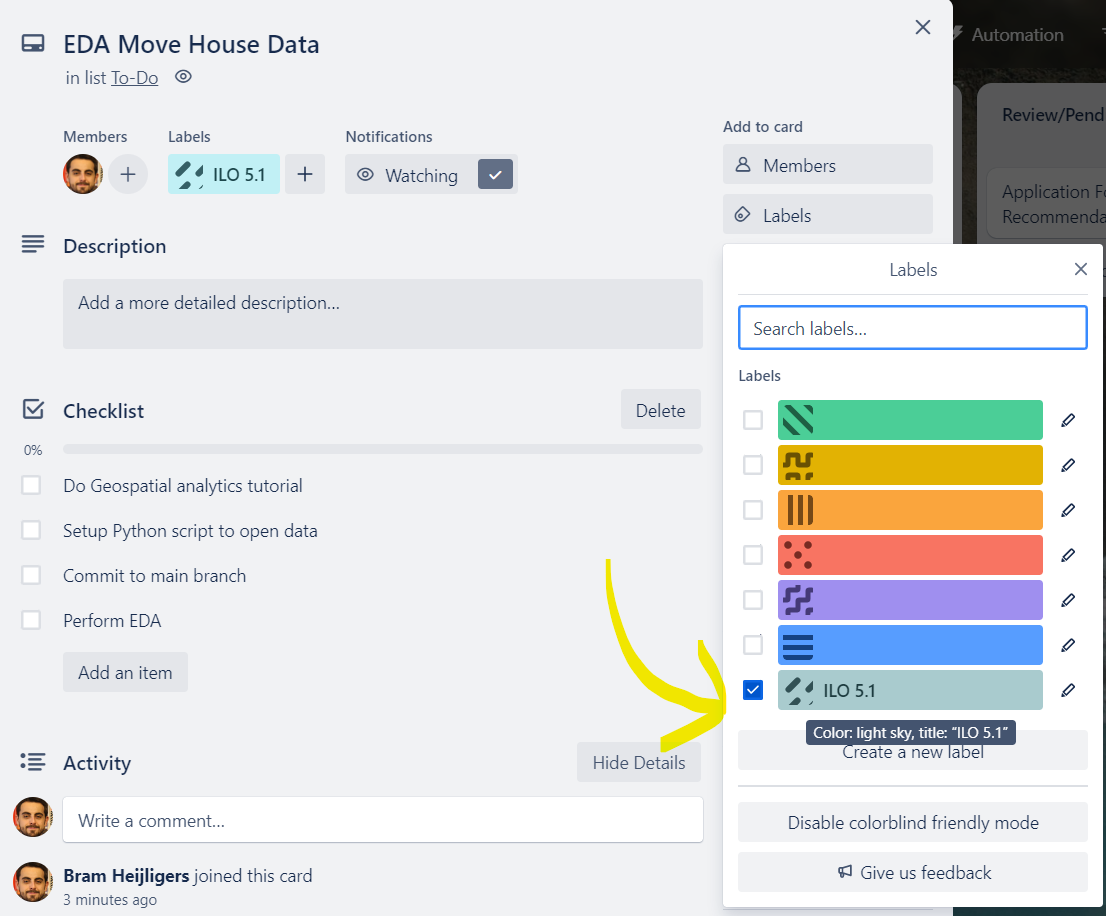
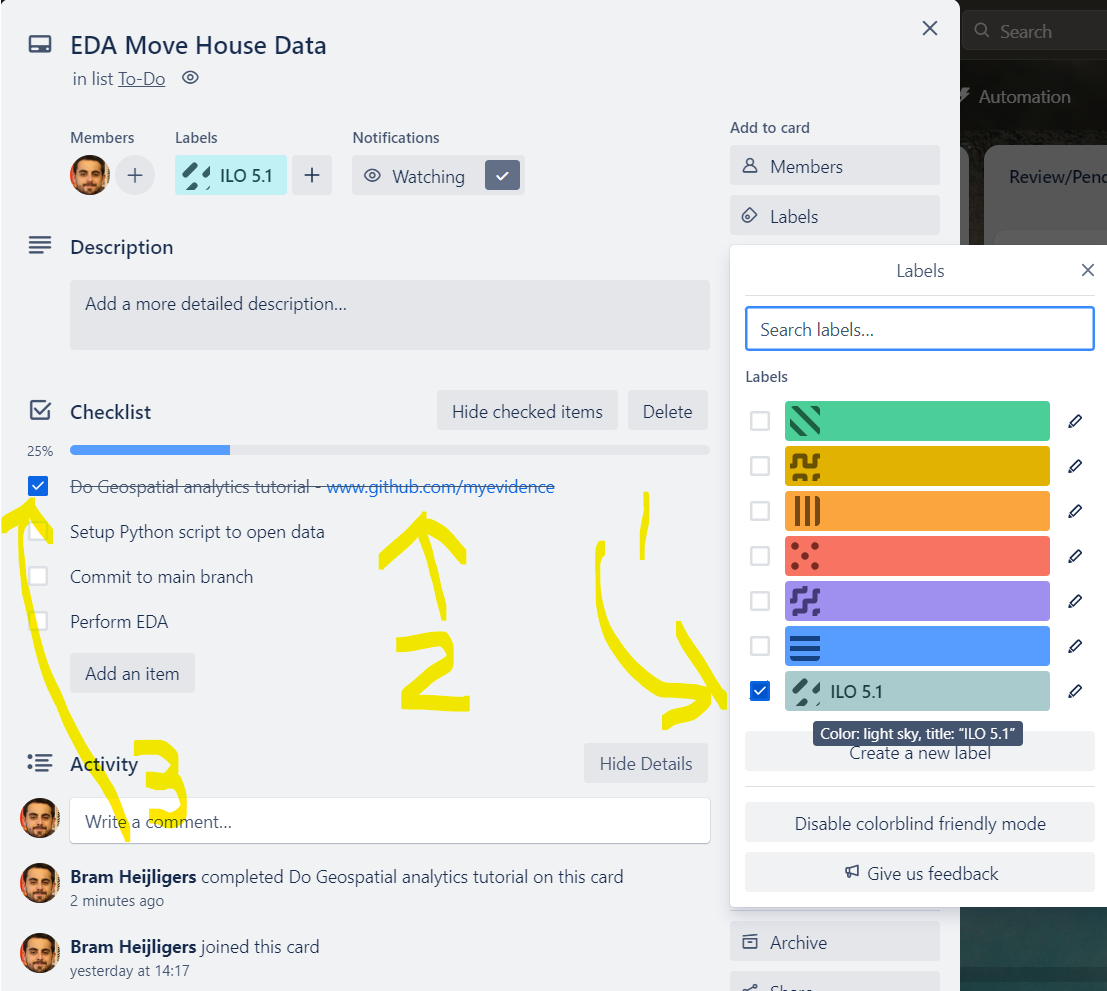
Y1D - Update Trello Evidencing

diff --git a/docs/Study Content/Agile Project Management/5.Getting Product Owner Approvement.md b/docs/Study Content/Agile Project Management/5.Getting Product Owner Approvement.md
@@ -74,6 +74,10 @@ When finalizing/creating the sprint planning, we want you to focus on planning t
         <img src=".\assets\ILO_Evidencing_Trello.png" />
   </figure>
   <br>
+So, after creating a task/story in trello, estimated it and planned it in, you will:
+1. Add (an) ILO label(s)
+2. Add an evidence link after complete the task/subtask
+3. Mark the task/subtask as done by marking it as illustrated or moving it on the board.
 
 Create a new board in trello and create headers for all the main categories of planning components above (what, how, who, inputs, outpust, asessment) and create Trello cards under those respective headers to adequate overview of all planning components (at least one per category). 
 
